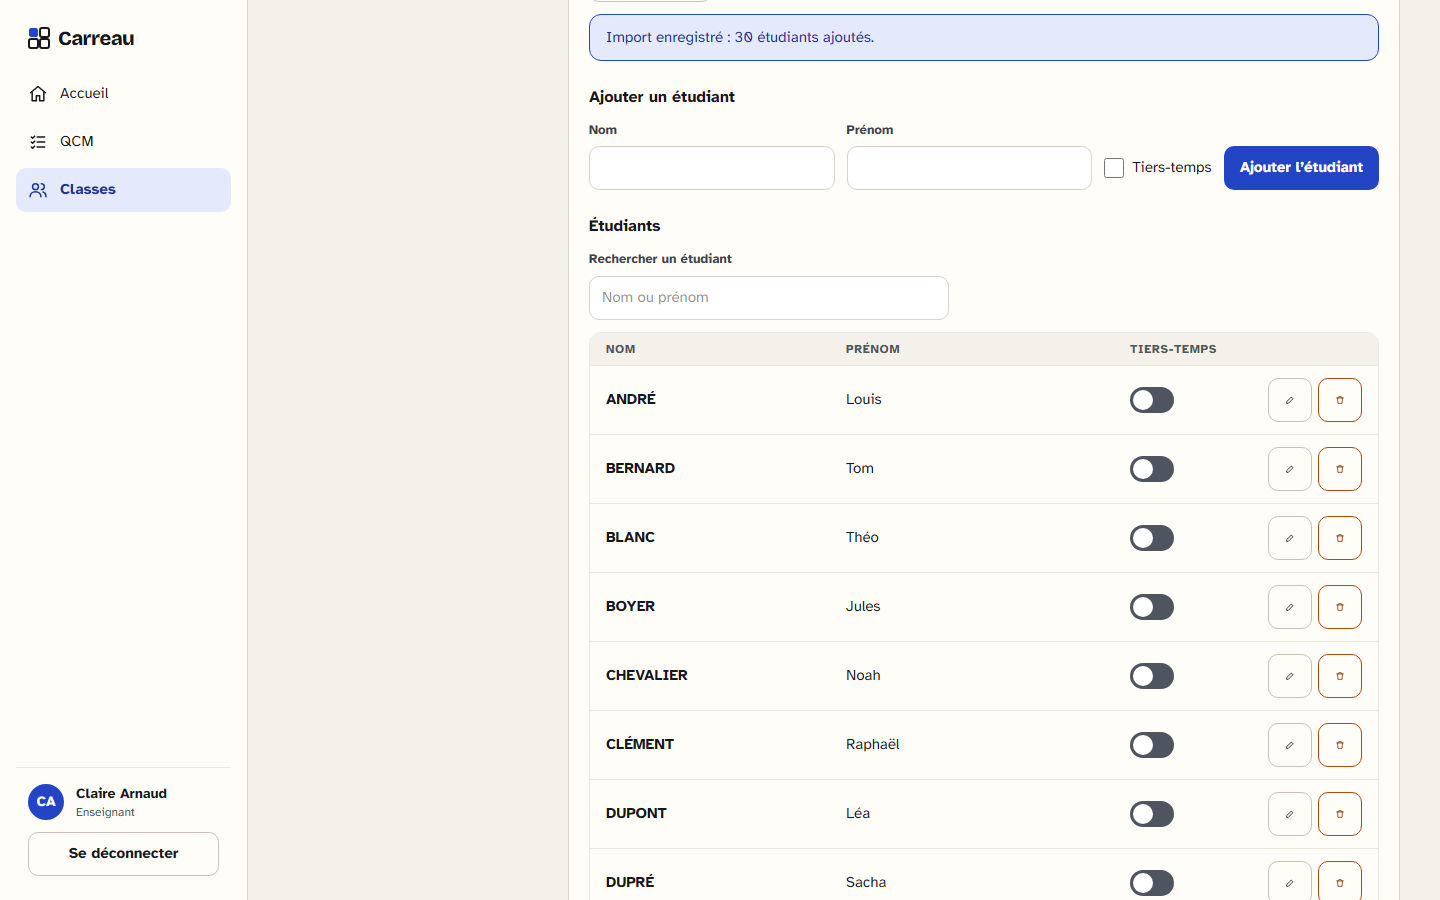
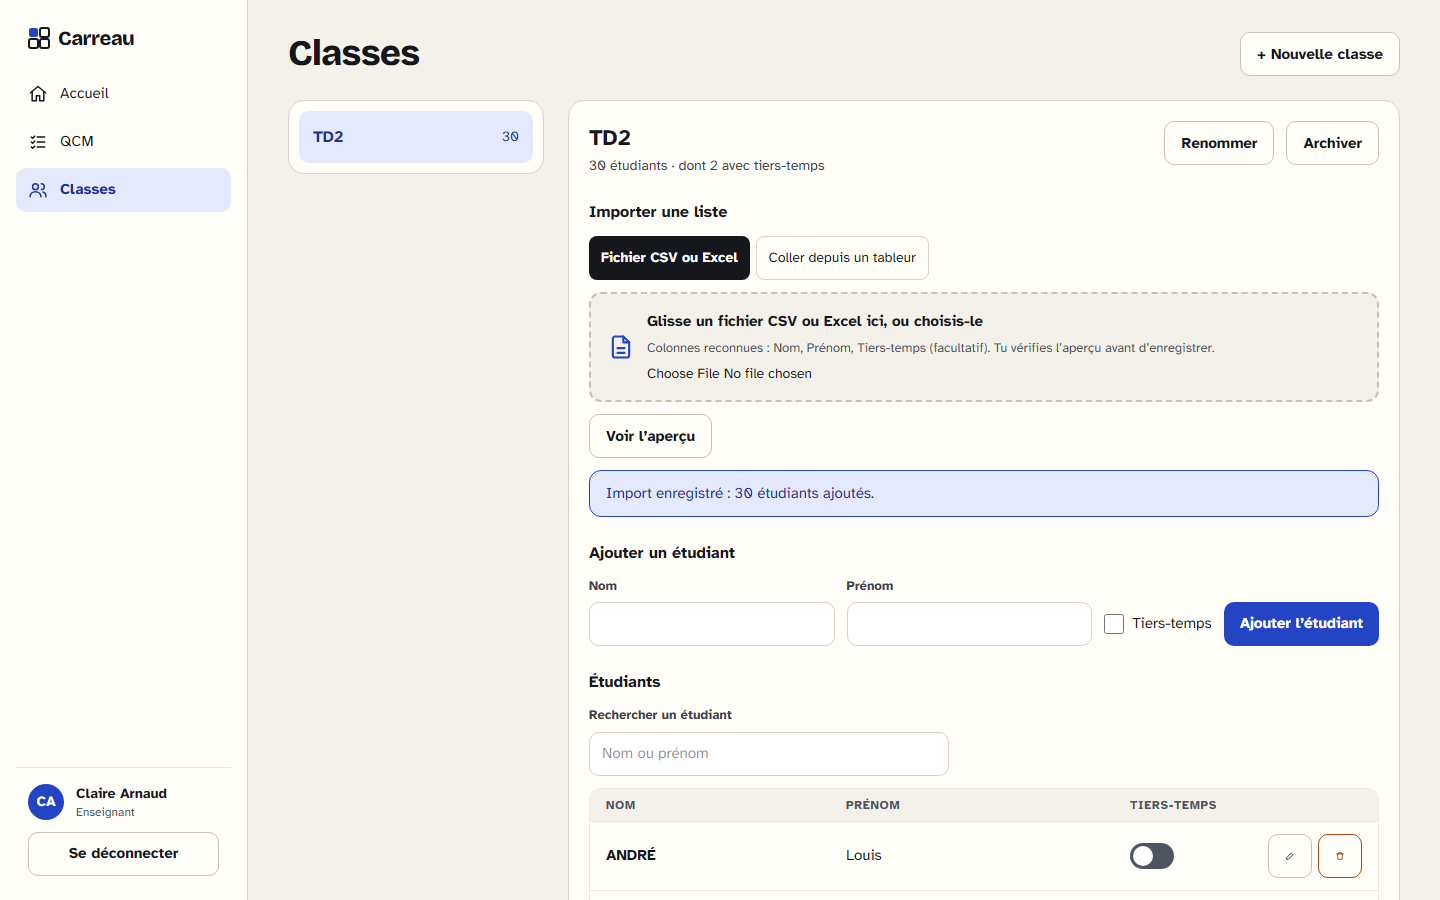
docs(readme): cadrer les captures depuis le haut de la page
Contexte : relecture des captures de la tâche 17. L'éditeur et la classe étaient capturés en cours de défilement (titres et statut d'enregistrement hors cadre), et la liste des QCM n'en montrait qu'un.
Changements :
- captures prises depuis le haut de la page ; éditeur sur la hauteur utile (titre, liste, question 2 entière) ;
- second QCM en brouillon pour montrer les deux statuts ;
- captures régénérées.
Vérification : build, npm run captures (quatre captures relues), e2e (31 passés, 2 sautés), lint, types ; aucun caractère invisible.

diff --git a/e2e/captures/readme.captures.ts b/e2e/captures/readme.captures.ts
@@ -41,6 +41,15 @@ async function sansDefilementHorizontal(page: Page) {
   expect(await page.evaluate(() => document.documentElement.scrollWidth <= window.innerWidth)).toBe(true);
 }
 
+/** Capture le haut de la page, sans le défilement laissé par les saisies précédentes. */
+async function capturerHautDePage(page: Page, nom: string, hauteur = 900) {
+  await page.setViewportSize({ width: 1440, height: hauteur });
+  await page.evaluate(() => window.scrollTo(0, 0));
+  await sansDefilementHorizontal(page);
+  await page.screenshot({ path: capture(nom) });
+  await page.setViewportSize({ width: 1440, height: 900 });
+}
+
 test("captures du README", async ({ page, browser }) => {
   test.setTimeout(180_000);
   viderCaptures();
@@ -96,8 +105,7 @@ test("captures du README", async ({ page, browser }) => {
   await page.getByRole("button", { name: "Importer 30 étudiants" }).click();
   await expect(page.getByText("Import enregistré : 30 étudiants ajoutés.")).toBeVisible();
 
-  await sansDefilementHorizontal(page);
-  await page.screenshot({ path: capture("classes"), fullPage: false });
+  await capturerHautDePage(page, "classes");
 
   // 4. QCM « Algorithmique — Contrôle 2 », quatre questions.
   await page
@@ -150,9 +158,9 @@ test("captures du README", async ({ page, browser }) => {
   await champ(page, "Bonne réponse : réponse 2").check();
   await attendreEnregistrement(page);
 
-  // Capture de l'éditeur ouvert sur la question 2 (code et réponses visibles).
-  await sansDefilementHorizontal(page);
-  await page.screenshot({ path: capture("editeur-qcm") });
+  // Capture de l'éditeur ouvert sur la question 2 (titre, liste, question entière), hauteur utile plafonnée.
+  const hauteurEditeur = Math.min(await page.evaluate(() => document.documentElement.scrollHeight), 1600);
+  await capturerHautDePage(page, "editeur-qcm", hauteurEditeur);
 
   // Q3 : choix unique avec image d'énoncé.
   await page.getByRole("button", { name: "+ Ajouter une question" }).click();
@@ -212,8 +220,27 @@ test("captures du README", async ({ page, browser }) => {
   await expect(page.getByRole("heading", { level: 1 })).toHaveText("QCM");
   await expect(page.getByRole("list", { name: "Mes QCM" }).getByText("Prêt", { exact: true })).toBeVisible();
 
-  await sansDefilementHorizontal(page);
-  await page.screenshot({ path: capture("mes-qcm") });
+  // Second QCM laissé en brouillon, pour montrer les deux statuts dans la liste « Mes QCM ».
+  await page.getByLabel("Titre du QCM", { exact: true }).fill("Réseaux — Révisions");
+  await page.getByRole("button", { name: "Créer le QCM" }).click();
+  await expect(page).toHaveURL(/\/enseignant\/qcm\/[0-9a-f-]{36}$/);
+  await expect(page.getByRole("heading", { level: 2, name: "Question 1" })).toBeVisible();
+  await champ(page, "Énoncé").fill("Quel protocole attribue automatiquement une adresse IP à un poste ?");
+  await champ(page, "Réponse 1").fill("DHCP");
+  await champ(page, "Réponse 2").fill("DNS");
+  await champ(page, "Bonne réponse : réponse 1").check();
+  await attendreEnregistrement(page);
+
+  await page
+    .getByRole("navigation", { name: "Navigation principale" })
+    .getByRole("link", { name: "QCM", exact: true })
+    .click();
+  await expect(page.getByRole("heading", { level: 1 })).toHaveText("QCM");
+  const listeMesQcm = page.getByRole("list", { name: "Mes QCM" });
+  await expect(listeMesQcm.getByText("Brouillon", { exact: true })).toBeVisible();
+  await expect(listeMesQcm.getByText("Prêt", { exact: true })).toBeVisible();
+
+  await capturerHautDePage(page, "mes-qcm");
 
   // 5. Aperçu étudiant sur téléphone : cookies de la page enseignante dans un second contexte iPhone 15.
   const etatStockage = await page.context().storageState();
